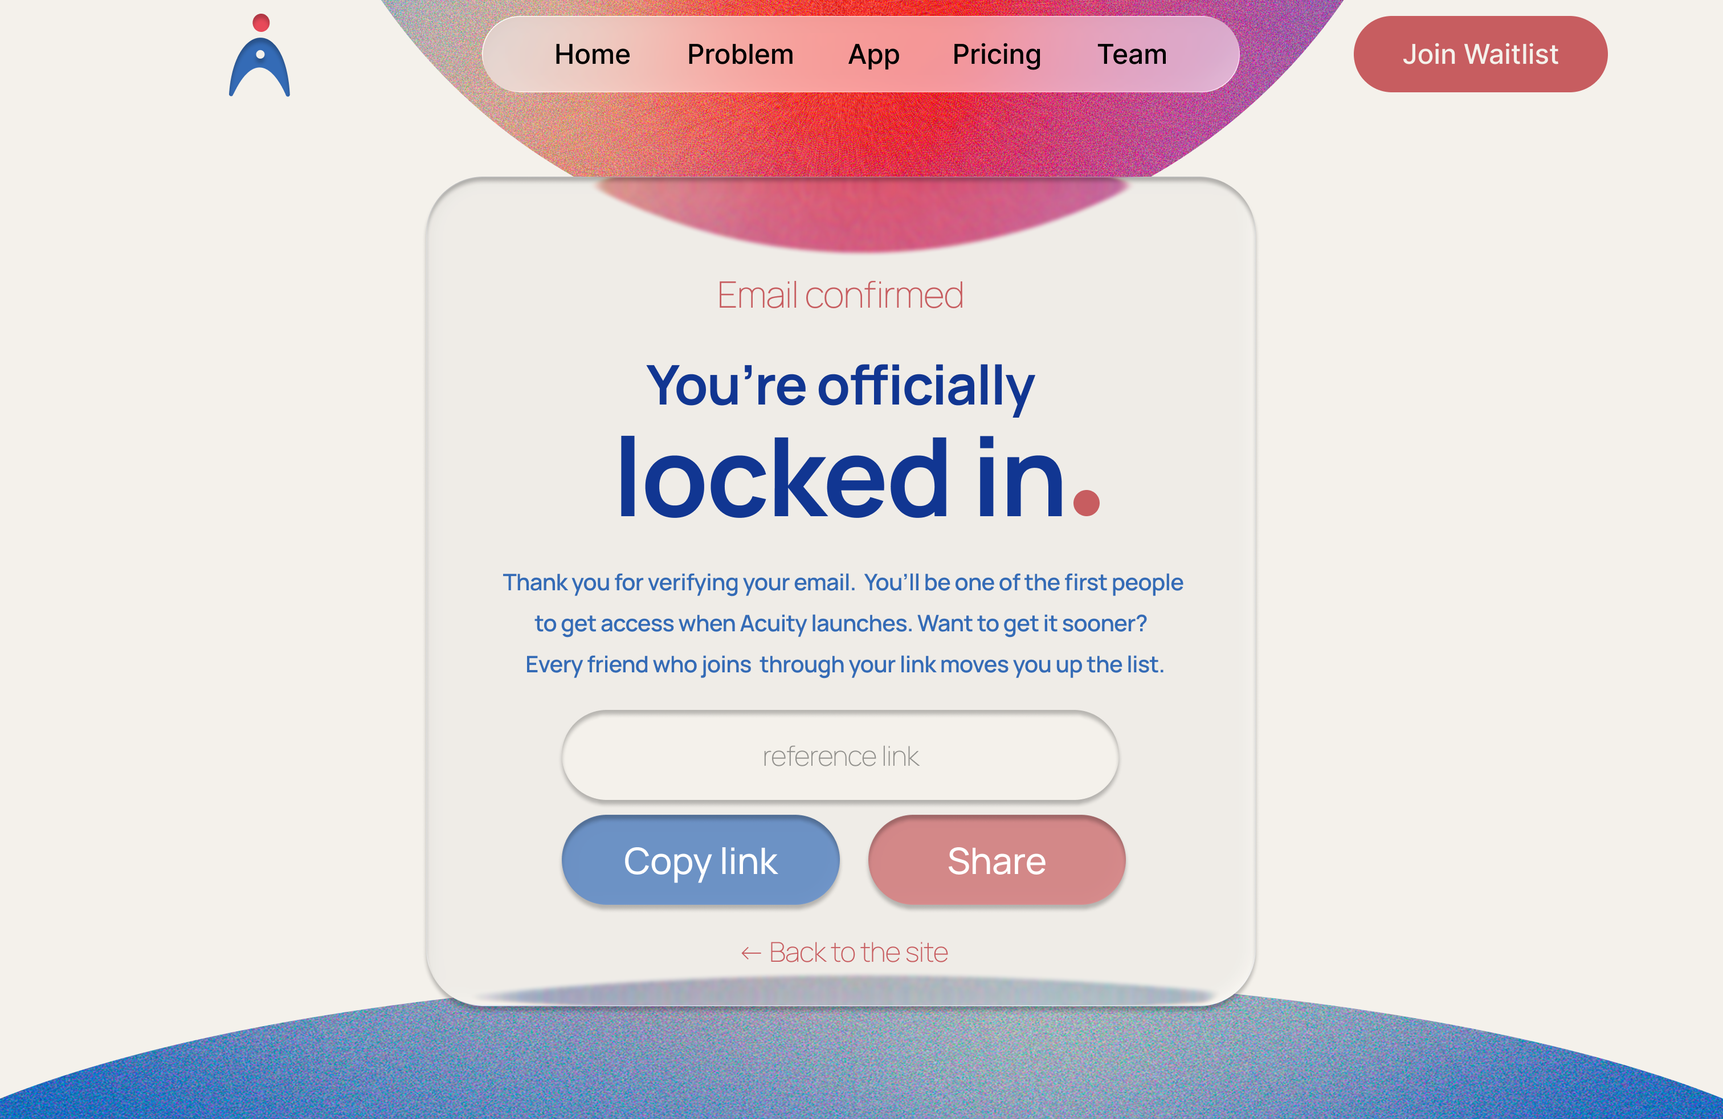
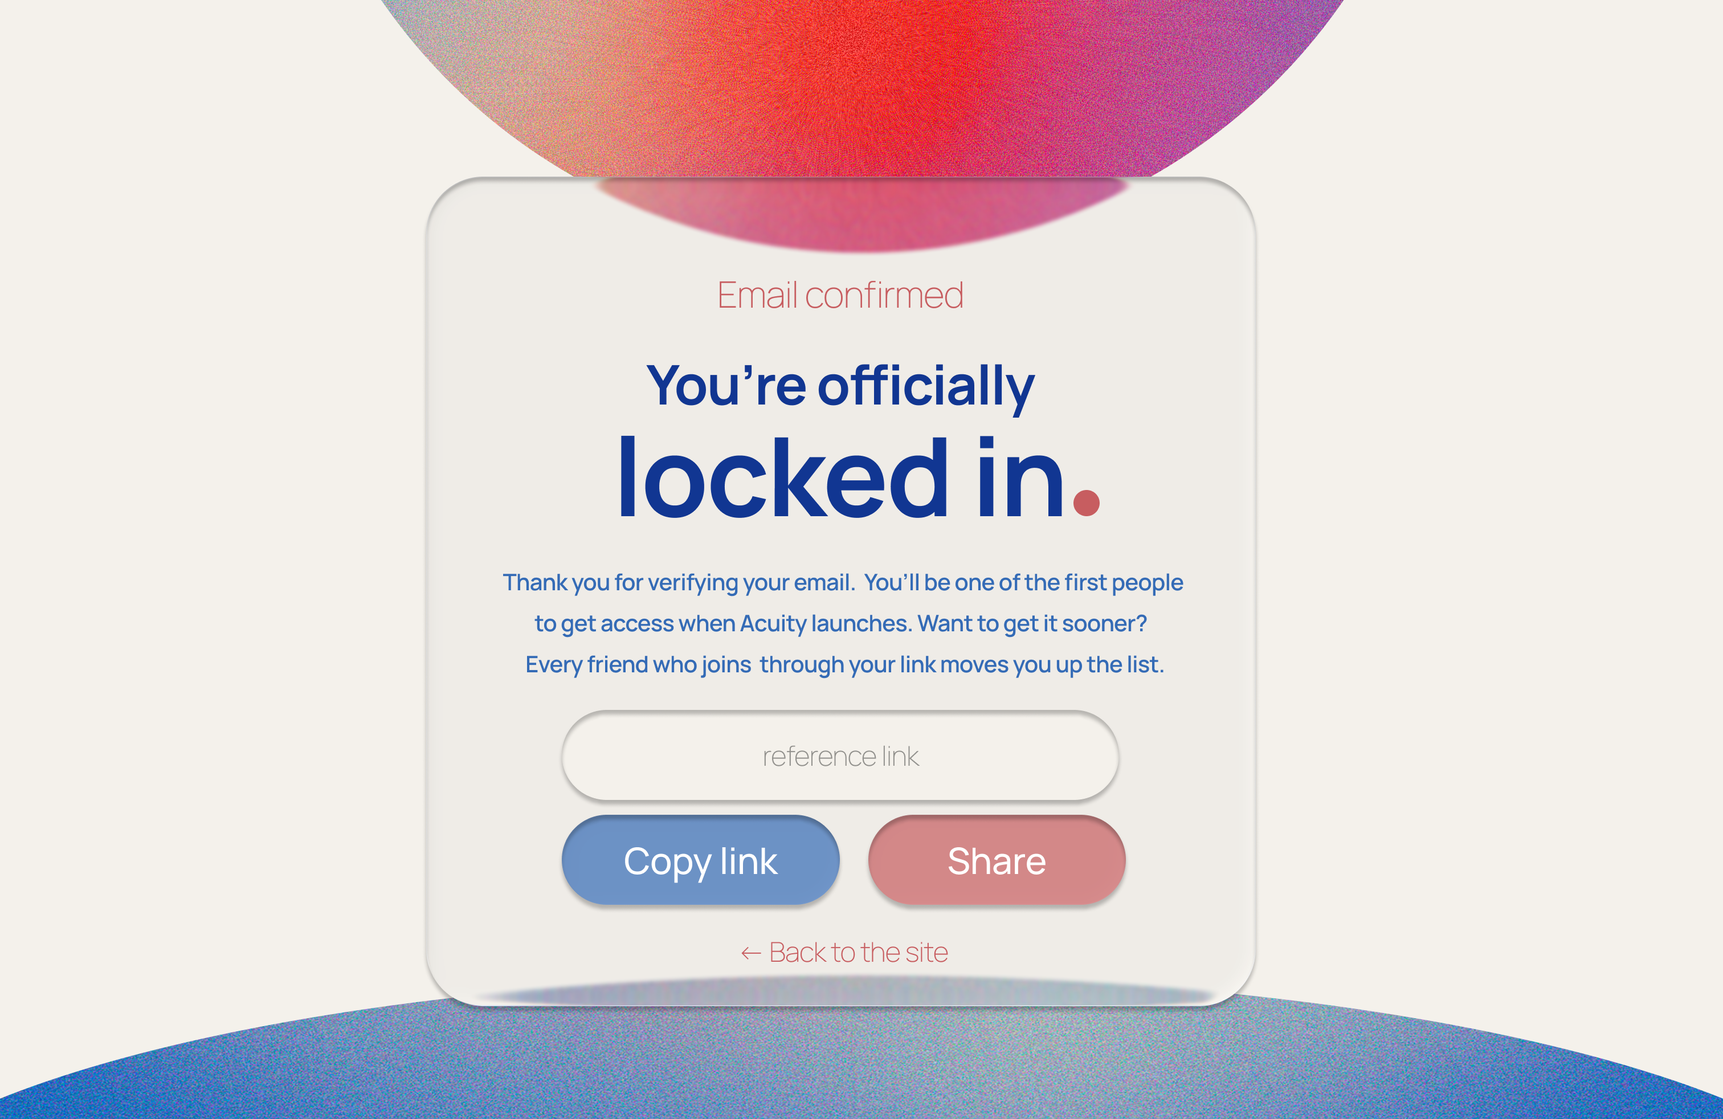
responsiveness

Changed region(s): [[0.2798, 0.0, 0.746, 0.0932], [0.7771, 0.0, 0.9325, 0.0932], [0.1243, 0.0, 0.1865, 0.0932]]

diff --git a/index.html b/index.html
@@ -10,7 +10,19 @@
   <meta property="og:type" content="website"/>
 
   <link rel="icon" href="assets/logo/logo.svg" type="image/svg+xml"/>
-  <script>document.documentElement.className += " js";</script>
+  <script>
+    document.documentElement.className += " js";
+    (function(){
+      var DESIGN_W = 1512;
+      function setScale(){
+        var w = document.documentElement.clientWidth || window.innerWidth;
+        document.documentElement.style.setProperty('--scale', Math.min(1, w / DESIGN_W));
+      }
+      setScale();
+      window.addEventListener('resize', setScale, { passive:true });
+      window.addEventListener('orientationchange', setScale, { passive:true });
+    })();
+  </script>
 
 
   <script>
@@ -61,6 +73,7 @@
       --shadow-lg:0 26px 70px rgba(40,30,25,0.18);
       --nav-h:84px;
       --hero-blur:6px;
+      --scale:1;
     }
 
     *,*::before,*::after{box-sizing:border-box;margin:0;padding:0;}
@@ -144,6 +157,21 @@
     .nav-waitlist:active{ transform:translateY(0) scale(.98); }
     .nav-waitlist:focus-visible{ outline:3px solid rgba(17,54,146,.45); outline-offset:3px; }
 
+    /*mobile hamburger*/
+    .nav-toggle{
+      display:none; position:absolute; top:16px; right:20px; z-index:310;
+      width:48px; height:48px; border:none; cursor:pointer; border-radius:14px;
+      background:rgba(255,255,255,0.55);
+      backdrop-filter:blur(16px) saturate(1.2); -webkit-backdrop-filter:blur(16px) saturate(1.2);
+      box-shadow:inset 0 1px 1px rgba(255,255,255,0.45);
+      flex-direction:column; align-items:center; justify-content:center; gap:5px;
+    }
+    .nav-toggle span{ display:block; width:22px; height:2px; border-radius:2px; background:var(--navy); transition:transform .25s ease, opacity .2s ease; }
+    .nav-toggle[aria-expanded="true"] span:nth-child(1){ transform:translateY(7px) rotate(45deg); }
+    .nav-toggle[aria-expanded="true"] span:nth-child(2){ opacity:0; }
+    .nav-toggle[aria-expanded="true"] span:nth-child(3){ transform:translateY(-7px) rotate(-45deg); }
+    .nav-pill-join{ display:none; }
+
     /*pill buttons*/
     .btn{
       cursor:pointer; border:none; font-family:var(--fm); text-decoration:none;
@@ -199,7 +227,8 @@
       display:block; padding:0; overflow:hidden;
       text-align:center;
     }
-    #home > *{ position:absolute; left:50%; transform:translateX(-50%); }
+    .hero-stage{ position:absolute; left:50%; top:0; transform:translateX(-50%); width:1512px; height:982px; }
+    .hero-stage > *{ position:absolute; left:50%; transform:translateX(-50%); }
 
     .hero-wordmark{ top:260px; width:490px; height:auto; }
 
@@ -408,7 +437,13 @@
     .app-tab-dismiss{ background:rgba(255,255,255,.22); border:none; border-radius:100px; color:#fff; font-family:var(--fm); font-size:.62rem; font-weight:600; padding:3px 10px; cursor:pointer; }
 
     /*pricing*/
-    #pricing{ justify-content:flex-start; padding-top:250px; }
+    #pricing{ height:100vh; min-height:982px; display:block; padding:0; overflow:hidden; }
+    .price-stage{
+      position:absolute; left:50%; top:0; transform:translateX(-50%);
+      width:1512px; height:982px;
+      display:flex; flex-direction:column; align-items:center; justify-content:flex-start;
+      padding-top:250px;
+    }
     #pricing .eyebrow{ color:var(--coral); font-family:var(--fm); font-weight:300; font-size:clamp(1.8rem,4.4vw,2.7rem); }
     .price-grid{ display:grid; grid-template-columns:repeat(3,1fr); gap:clamp(1rem,2.5vw,2rem); width:100%; max-width:1080px; align-items:stretch; }
     .price-card{
@@ -544,18 +579,167 @@
     .ft-col a:hover{ opacity:1; text-decoration:underline; }
     .ft-bottom{ position:absolute; left:50%; transform:translateX(-50%); bottom:.7rem; font-family:var(--fm); font-weight:500; font-size:.74rem; color:var(--offwhite); opacity:.65; white-space:nowrap; }
 
-    /*responsive*/
-    @media (max-width:860px){
+    @media (max-width:1511.98px){
+      #home,#problem,#app,.feat,#team,#waitlist,#pricing{
+        height:calc(982px * var(--scale));
+        min-height:0;
+      }
+      .hero-stage,.problem-stage,.demo-stage,.feat-stage,.team-stage,.w-stage,.price-stage{
+        max-width:none;
+        transform:translateX(-50%) scale(var(--scale));
+        transform-origin:top center;
+      }
+      .bg-top{ width:calc(840px * var(--scale)); height:calc(220px * var(--scale)); }
+      .bg-bottom{
+        width:calc(1402px * var(--scale)); height:calc(90px * var(--scale));
+        left:50%; transform:translateX(-50%);
+      }
+    }
+
+    /*nav*/
+    @media (max-width:1365.98px){
+      .nav-toggle{ display:flex; }
+      .nav-logo{ left:20px; top:14px; width:42px; height:auto; }
+      .nav-waitlist{ display:none; }
       .nav-pill{ display:none; }
       .nav-pill.open{
-        display:flex; flex-direction:column; gap:1.1rem;
-        position:absolute; top:calc(var(--nav-h) - 8px); left:1rem; right:1rem;
-        padding:1.5rem; border-radius:24px;
+        display:flex; flex-direction:column; gap:.4rem;
+        position:fixed; top:74px; left:12px; right:12px; width:auto; height:auto;
+        transform:none; padding:1rem 1.2rem; border-radius:24px;
+        background:rgba(255,255,255,0.94);
+        backdrop-filter:blur(20px) saturate(1.2); -webkit-backdrop-filter:blur(20px) saturate(1.2);
+        box-shadow:var(--shadow-lg);
       }
-      .nav-toggle{ display:flex; }
-      .price-grid{ grid-template-columns:1fr; max-width:380px; gap:1.4rem; }
-      .site-footer{ justify-content:center; padding:0 1.2rem; }
-      .ft-cols{ gap:1.8rem; }
+      .nav-pill.open a{ font-size:1.15rem; padding:.7rem; width:100%; text-align:center; border-radius:12px; }
+      .nav-pill.open a:hover{ background:rgba(0,0,0,.04); opacity:1; }
+      .nav-pill-join{ display:block; color:#fff; background:var(--coral); font-weight:600; box-shadow:0 8px 20px rgba(199,93,96,.3); }
+      .nav-pill-join:hover{ background:#b8504f; }
+    }
+
+    /*footer*/
+    @media (max-width:1100px){
+      .site-footer{
+        aspect-ratio:auto; min-height:280px;
+        background:var(--navy) url('assets/logo/footer.png') center/cover no-repeat;
+        justify-content:center; align-items:center;
+        padding:3.2rem clamp(1.2rem,5vw,3rem) 3.2rem;
+      }
+      .ft-cols{ flex-wrap:wrap; justify-content:center; gap:clamp(1.6rem,5vw,3rem); }
+      .ft-bottom{ position:static; transform:none; margin-top:1.6rem; white-space:normal; text-align:center; }
+    }
+    @media (max-width:480px){
+      .site-footer{ min-height:0; padding:2.6rem 1.2rem; }
+      .ft-cols{ gap:1.6rem 2.2rem; }
+      .ft-col{ min-width:120px; }
+    }
+
+    /*tablet/mobile*/
+    @media (max-width:1024px){
+      html{ scroll-snap-type:none; }
+      #home,#problem,#app,.feat,#team,#waitlist,#pricing{
+        height:auto; min-height:auto; overflow:visible;
+        display:flex; flex-direction:column; align-items:center; justify-content:center;
+        text-align:center;
+        padding:104px 22px 76px;
+        scroll-snap-align:none;
+      }
+      .hero-stage,.problem-stage,.demo-stage,.feat-stage,.team-stage,.w-stage,.price-stage{
+        position:static; transform:none; left:auto; top:auto; right:auto;
+        width:100%; max-width:680px; height:auto; margin:0 auto; padding:0; max-width:680px;
+        display:flex; flex-direction:column; align-items:center;
+      }
+      .hero-stage > *,.problem-stage > *,.demo-stage > *,
+      .feat-stage > *,.team-stage > *,.w-stage > *,.price-stage > *{
+        position:static; transform:none; left:auto; right:auto; top:auto; bottom:auto;
+        width:auto; max-width:100%; margin-left:0; margin-right:0;
+      }
+      .bg-top{ width:min(520px,94vw); height:auto; aspect-ratio:840/220; }
+      .bg-bottom{ width:min(820px,150vw); height:auto; aspect-ratio:1402/90; left:50%; transform:translateX(-50%); }
+
+      /*hero*/
+      #home{ min-height:100svh; justify-content:center; padding-top:96px; }
+      #home .hero-wordmark{ position:static; transform:none; width:min(56vw,288px); height:auto; margin:0 auto 30px; }
+      #home .hero-head{ position:static; transform:none; height:auto; width:100%; display:flex; flex-direction:column; align-items:center; gap:4px; margin-bottom:20px; }
+      #home .hero-line-thin,#home .hero-line-bold{ position:static; transform:none; left:auto; top:auto; white-space:normal; }
+      #home .hero-line-thin{ display:block; font-size:clamp(30px,8.6vw,52px); }
+      #home .hero-line-bold{ display:inline-block; position:relative; left:auto; top:auto; font-size:clamp(36px,10.6vw,64px); }
+      #home .hero-dot{ left:100%; bottom:.13em; width:.2em; height:.2em; margin-left:.02em; }
+      #home .hero-sub{ position:static; transform:none; white-space:normal; font-size:clamp(16px,4.6vw,21px); line-height:1.35; max-width:28ch; margin:0 auto 36px; }
+      #home .hero-cta{ position:static; transform:none; flex-direction:column; width:100%; max-width:340px; gap:14px; }
+      #home .hero-btn{ width:100%; height:62px; font-size:20px; border-radius:31px; }
+
+      /*problem*/
+      #problem .prob-title{ font-size:clamp(18px,4.8vw,28px); width:auto; margin-bottom:18px; }
+      #problem .prob-head{ width:auto; font-size:clamp(30px,8vw,48px); line-height:1.12; margin-bottom:42px; }
+      #problem .prob-line,#problem .prob-line.l2{ white-space:normal; display:block; left:auto; position:static; }
+      #problem .prob-dot{ right:0; bottom:.26em; width:.2em; height:.2em; }
+      #problem .prob-stat{ width:100%; max-width:420px; margin:0 auto 34px; }
+      #problem .prob-stat:last-child{ margin-bottom:0; }
+      #problem .prob-stat .stat-num{ font-size:clamp(68px,18vw,118px); }
+      #problem .prob-label{ margin-top:10px; font-size:clamp(14px,3.8vw,18px); line-height:1.3; }
+
+      /*demo*/
+      #app .demo-head{ font-size:clamp(28px,7vw,46px); margin-bottom:14px; }
+      #app .demo-sub{ font-size:clamp(15px,4vw,20px); line-height:1.4; max-width:34ch; margin:0 auto 34px; }
+      #app .tablet{ position:static; transform:none; width:100%; max-width:520px; height:auto; aspect-ratio:755.57/496.16; margin:0 auto; }
+
+      /*value proposition*/
+      #features .eyebrow{ font-size:clamp(20px,5.2vw,30px); margin-bottom:22px; }
+      #features .feat-title{ position:static; width:100%; left:auto; right:auto; font-size:clamp(18px,4.8vw,30px); line-height:1.5; letter-spacing:-0.01em; text-shadow:none; }
+      #features .feat-title .vpl{ display:block; }
+      .vp-acuity{ height:1.5em; vertical-align:-0.32em; }
+      .vp-dot{ right:-0.05em; bottom:0.22em; width:.3em; height:.3em; }
+
+      /*features*/
+      .feat .eyebrow{ font-size:clamp(20px,5.2vw,30px); margin-bottom:18px; }
+      .feat .feat-title{ position:static; font-size:clamp(32px,8.6vw,56px); line-height:1.1; margin-bottom:16px; }
+      .feat .feat-sub{ position:static; font-size:clamp(17px,4.6vw,26px); line-height:1.4; max-width:32ch; margin:0 auto; }
+
+      /*pricing*/
+      #pricing .eyebrow{ font-size:clamp(24px,5.8vw,34px); margin-bottom:30px; }
+      #pricing .price-grid{ position:static; transform:none; left:auto; grid-template-columns:1fr; width:100%; max-width:340px; gap:18px; }
+
+      /*team*/
+      #team .eyebrow{ font-size:clamp(20px,5.2vw,30px); margin-bottom:14px; }
+      #team .t-head{ white-space:normal; font-size:clamp(30px,7.6vw,48px); line-height:1.12; margin-bottom:16px; }
+      #team .t-dot{ right:0; bottom:.22em; width:.2em; height:.2em; }
+      #team .t-sub{ font-size:clamp(16px,4.2vw,22px); line-height:1.4; max-width:38ch; margin:0 auto 34px; }
+      #team .t-grid{ left:auto; width:100%; max-width:340px; grid-template-columns:1fr; gap:18px; }
+
+      /*waitlist*/
+      #waitlist .w-form-wrap{ position:static; width:100%; top:auto; }
+      #waitlist .eyebrow{ font-size:clamp(20px,5.2vw,30px); margin:0 0 18px; }
+      #waitlist .w-head{ font-size:clamp(42px,11.5vw,76px); line-height:1.08; margin:0 0 22px; }
+      #waitlist .w-dot{ right:-0.02em; bottom:.2em; width:.2em; height:.2em; }
+      #waitlist .w-sub-a{ font-size:clamp(19px,5vw,28px); margin:0 0 10px; }
+      #waitlist .w-sub-b{ font-size:clamp(15px,4vw,18px); line-height:1.4; max-width:34ch; margin:0 auto 30px; }
+      #waitlist .w-form{ flex-direction:column; flex-wrap:nowrap; max-width:380px; gap:12px; }
+      #waitlist .w-input{ flex:1 1 auto; width:100%; padding:1.05rem 1.4rem; font-size:1.05rem; }
+      #waitlist .btn-lg{ width:100%; padding:1.05rem 1.6rem; font-size:1.1rem; }
+
+      /*waitlist success state*/
+      #waitlist .w-success{ position:static; width:100%; top:auto; }
+      #waitlist .ws-eyebrow{ font-size:clamp(20px,5.2vw,30px); margin:0 0 16px; }
+      #waitlist .ws-head{ white-space:normal; font-size:clamp(34px,8.6vw,64px); margin:0 0 22px; }
+      #waitlist .ws-body{ font-size:clamp(16px,4.2vw,22px); line-height:1.4; max-width:100%; margin:0 auto 30px; }
+      #waitlist .ws-share{ width:100%; }
+      #waitlist .share-link{ min-width:0; width:100%; max-width:100%; }
+      #waitlist .share-link code{ max-width:100%; }
+      #waitlist .ws-btns{ flex-wrap:wrap; width:100%; }
+      #waitlist .w-success .btn{ flex:1 1 140px; padding:.9rem 1.4rem; font-size:1rem; }
+    }
+
+    /*tablet*/
+    @media (min-width:680px) and (max-width:1024px){
+      #pricing .price-grid{ grid-template-columns:repeat(3,1fr); max-width:780px; gap:20px; }
+      #team .t-grid{ grid-template-columns:repeat(3,1fr); max-width:820px; gap:20px; }
+      .hero-stage,.problem-stage,.demo-stage,.feat-stage,.team-stage,.w-stage,.price-stage{ max-width:760px; }
+    }
+
+    /*small phones*/
+    @media (max-width:400px){
+      #home,#problem,#app,.feat,#team,#waitlist,#pricing{ padding:96px 18px 60px; }
+      #problem .prob-head{ margin-bottom:34px; }
     }
 
     /*debugging*/
@@ -581,14 +765,19 @@
     <a href="#app" data-sec="app">App</a>
     <a href="#pricing" data-sec="pricing">Pricing</a>
     <a href="#team" data-sec="team">Team</a>
+    <a href="#waitlist" class="nav-pill-join" data-cta="nav_join">Join Waitlist</a>
   </div>
   <a href="#waitlist" class="nav-waitlist" data-cta="nav_join">Join Waitlist</a>
+  <button class="nav-toggle" id="navToggle" aria-label="Open menu" aria-expanded="false" aria-controls="navPill">
+    <span></span><span></span><span></span>
+  </button>
 </nav>
 
 <main>
 
   <!--hero-->
   <section id="home">
+   <div class="hero-stage">
     <img src="assets/logo/text.png" alt="Acuity." class="hero-wordmark">
     <h1 class="hero-head">
       <span class="hero-line-thin">The science of</span>
@@ -599,6 +788,7 @@
       <a href="#waitlist" class="hero-btn hero-btn-join" data-cta="hero_join">Join Waitlist</a>
       <a href="#app" class="hero-btn hero-btn-demo" data-cta="hero_demo">Demo</a>
     </div>
+   </div>
   </section>
 
   <!--problem-->
@@ -788,6 +978,7 @@
 
   <!--pricing-->
   <section id="pricing">
+   <div class="price-stage">
     <p class="eyebrow rv">Pricing</p>
     <div class="price-grid">
       <button class="price-card pc-standard rv rv-2" data-tier="standard" data-loc="pricing_grid" type="button" aria-label="Standard plan – Get started">
@@ -812,6 +1003,7 @@
         </div>
       </button>
     </div>
+   </div>
   </section>
 
   <!--team-->
@@ -895,7 +1087,6 @@
     <div class="ft-col">
       <span class="ft-h">Contact</span>
       <a href="https://instagram.com/acuity.focus" target="_blank" rel="noopener">acuity.focus</a>
-      <a href="mailto:nikitadjand@gmail.com">nikitadjand@gmail.com</a>
     </div>
   </div>
   <span class="ft-bottom">© 2026 Acuity. All rights reserved.</span>
@@ -1105,6 +1296,25 @@
     });
   }, {threshold:0.5});
   Object.keys(secMap).forEach(function(id){ spyIO.observe(document.getElementById(id)); });
+
+  /*mobile nav (hamburger)*/
+  var navToggle=document.getElementById('navToggle');
+  var navPill=document.getElementById('navPill');
+  function closeMenu(){ if(navPill){ navPill.classList.remove('open'); } if(navToggle){ navToggle.setAttribute('aria-expanded','false'); navToggle.setAttribute('aria-label','Open menu'); } }
+  function openMenu(){ if(navPill){ navPill.classList.add('open'); } if(navToggle){ navToggle.setAttribute('aria-expanded','true'); navToggle.setAttribute('aria-label','Close menu'); } }
+  if(navToggle && navPill){
+    navToggle.addEventListener('click', function(e){
+      e.stopPropagation();
+      if(navPill.classList.contains('open')) closeMenu(); else openMenu();
+    });
+    navPill.addEventListener('click', function(e){ if(e.target.closest('a')) closeMenu(); });
+    document.addEventListener('click', function(e){
+      if(!navPill.classList.contains('open')) return;
+      if(e.target.closest('#navPill') || e.target.closest('#navToggle')) return;
+      closeMenu();
+    });
+    document.addEventListener('keydown', function(e){ if(e.key==='Escape') closeMenu(); });
+  }
 
   /*cta click tracking*/
   document.addEventListener('click', function(e){

diff --git a/success.html b/success.html
@@ -15,8 +15,19 @@
     @font-face{font-family:'Manrope';font-weight:800;src:url('assets/fonts/Manrope-ExtraBold.ttf') format('truetype');font-display:swap;}
     *{box-sizing:border-box;margin:0;padding:0;}
     :root{--cream:#F1ECE2;--navy:#113692;--blue-mid:#346BB6;--coral:#C75D60;}
-    body{font-family:'Manrope',system-ui,sans-serif;background:var(--cream);color:#2c2c33;min-height:100svh;display:flex;align-items:center;justify-content:center;text-align:center;padding:2rem;overflow:hidden;position:relative;}
-    .bg-top{position:fixed;top:0;left:50%;transform:translateX(-50%);width:min(1500px,135vw);aspect-ratio:1024/360;background:url('assets/backgrounds/semi circle.png') top center/contain no-repeat;z-index:0;pointer-events:none;}
+    body{font-family:'Manrope',system-ui,sans-serif;background:var(--cream);color:#2c2c33;min-height:100svh;display:flex;align-items:center;justify-content:center;text-align:center;padding:clamp(1rem,4vw,2rem);overflow:hidden;position:relative;}
+    .bg-top{
+      position:fixed;
+    top:0;
+  left:50%;
+  transform:translateX(-50%);
+  width:min(847px,120vw);
+  height:auto;
+  aspect-ratio:847/226;
+  background:url('assets/backgrounds/semi circle.png') center top / contain no-repeat;
+  pointer-events:none;
+  z-index:0;
+}
     .bg-bottom{position:fixed;bottom:0;left:50%;transform:translateX(-50%);width:min(1700px,150vw);aspect-ratio:1024/120;background:url('assets/backgrounds/lower circle.png') bottom center/contain no-repeat;z-index:0;pointer-events:none;}
 
     /*success card*/
@@ -27,21 +38,21 @@
       backdrop-filter:blur(30px) saturate(1.1);-webkit-backdrop-filter:blur(30px) saturate(1.1);
       border:1px solid rgba(255,255,255,.7);
       border-radius:36px;
-      padding:3.4rem 3.4rem 2.6rem;
+      padding:clamp(2rem,6vw,3.4rem) clamp(1.4rem,5vw,3.4rem) clamp(1.6rem,5vw,2.6rem);
       box-shadow:0 34px 90px rgba(40,30,25,.22), inset 0 1px 0 rgba(255,255,255,.75), inset 0 -3px 30px rgba(255,255,255,.28);
     }
     @keyframes pop{from{opacity:0;transform:translateY(24px) scale(.96);}to{opacity:1;transform:none;}}
 
-    .eyebrow{font-weight:200;font-size:32px;color:var(--coral);line-height:1.1;margin-bottom:.5rem;}
-    .line-a{font-weight:700;font-size:48px;color:var(--navy);line-height:1.08;letter-spacing:-.02em;}
-    .line-b{font-weight:700;font-size:96px;color:var(--navy);line-height:1.0;letter-spacing:-.02em;margin-bottom:1.2rem;}
+    .eyebrow{font-weight:200;font-size:clamp(19px,5vw,32px);color:var(--coral);line-height:1.1;margin-bottom:.5rem;}
+    .line-a{font-weight:700;font-size:clamp(26px,7vw,48px);color:var(--navy);line-height:1.08;letter-spacing:-.02em;}
+    .line-b{font-weight:700;font-size:clamp(40px,12.5vw,96px);color:var(--navy);line-height:1.0;letter-spacing:-.02em;margin-bottom:1.2rem;}
     .dot-holder{display:inline;}
     .dot-img{display:inline-block;width:.2em;height:.2em;vertical-align:baseline;margin-left:.04em;}
-    .lead{font-weight:600;font-size:20px;color:var(--blue-mid);line-height:1.5;margin:0 auto 1.9rem;max-width:560px;}
+    .lead{font-weight:600;font-size:clamp(16px,4.4vw,20px);color:var(--blue-mid);line-height:1.5;margin:0 auto 1.9rem;max-width:560px;}
 
-    .share{display:flex;flex-direction:column;align-items:center;gap:1rem;margin-bottom:1.4rem;}
-    .share-btns{display:flex;gap:.8rem;}
-    .share-link{display:flex;align-items:center;justify-content:center;background:rgba(255,255,255,.55);border:1px solid rgba(255,255,255,.7);border-radius:100px;padding:.7rem 1.4rem;font-weight:600;color:var(--blue-mid);font-size:.95rem;min-width:320px;max-width:100%;overflow:hidden;text-overflow:ellipsis;white-space:nowrap;box-shadow:inset 0 1px 0 rgba(255,255,255,.6);}
+    .share{display:flex;flex-direction:column;align-items:center;gap:1rem;margin-bottom:1.4rem;width:100%;}
+    .share-btns{display:flex;gap:.8rem;flex-wrap:wrap;justify-content:center;}
+    .share-link{display:flex;align-items:center;justify-content:center;background:rgba(255,255,255,.55);border:1px solid rgba(255,255,255,.7);border-radius:100px;padding:.7rem 1.4rem;font-weight:600;color:var(--blue-mid);font-size:.95rem;width:100%;min-width:0;max-width:420px;overflow:hidden;text-overflow:ellipsis;white-space:nowrap;box-shadow:inset 0 1px 0 rgba(255,255,255,.6);}
     .btn{cursor:pointer;border:1px solid rgba(255,255,255,.35);font-family:'Manrope';font-weight:700;padding:.85rem 2rem;border-radius:100px;font-size:1rem;color:#fff;text-decoration:none;display:inline-flex;align-items:center;justify-content:center;backdrop-filter:blur(8px);-webkit-backdrop-filter:blur(8px);transition:transform .2s,box-shadow .25s,background .25s,filter .25s;}
     .btn:active{transform:scale(.96);}
     .btn-blue{background:rgba(52,107,182,.7);box-shadow:0 12px 28px rgba(52,107,182,.26), inset 0 1px 0 rgba(255,255,255,.45);}

diff --git a/supabase/functions/_shared/email.ts b/supabase/functions/_shared/email.ts
@@ -78,8 +78,8 @@ export async function sendEmail(opts: { to: string; subject: string; html: strin
   return false;
 }
 /* email templates */
-const BRAND = "#2C4FB2";
-const SALMON = "#CE7C6A";
+const BRAND = "346BB6";
+const SALMON = "#C75D60";
 
 function shell(inner: string): string {
   return `<div style="font-family:Helvetica,Arial,sans-serif;background:#F1ECE2;padding:32px 16px;">
